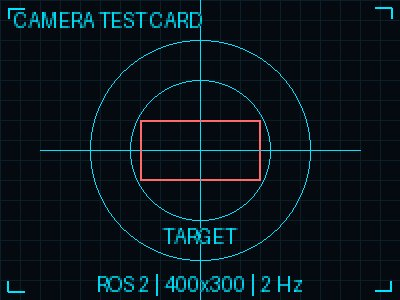
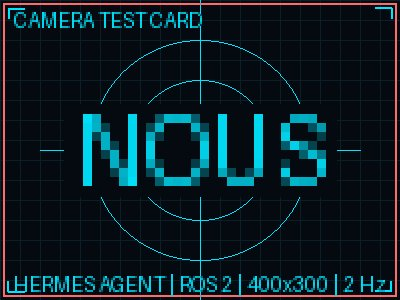
demo(card): the test card carries the NOUS mark
The card is the only picture the demo cell can produce, and beat 7 of the video
is 'grab frame'. It now reads NOUS on a plate over the reticle, with the frame,
resolution and rate still stated underneath — the same generated-from-constants
asset, so the JPEG is still reproducible from this file rather than opaque.

The accent box moved from the centre to the image border: it used to cut through
the wordmark, and a target rectangle nobody asked for was worth less than a
legible logo.

diff --git a/demo/make_testcard.py b/demo/make_testcard.py
@@ -29,8 +29,8 @@ from PIL import Image, ImageDraw, ImageFont
 # bundled camera node actually publishes, so the picture cannot contradict the
 # stream it is sent on.
 HEADER = "CAMERA TEST CARD"
-CENTER = "TARGET"
-FOOTER = "ROS 2 | 400x300 | 2 Hz"
+CENTER = "NOUS"
+FOOTER = "HERMES AGENT | ROS 2 | 400x300 | 2 Hz"
 
 # --- frame geometry, shared with demo/nodes.py ----------------------------
 WIDTH, HEIGHT = 400, 300  # a raw rgb8 frame at this size is 360,000 B
@@ -47,9 +47,10 @@ OUTPUT = Path(__file__).with_name("testcard.jpg")
 CENTER_XY = (WIDTH // 2, HEIGHT // 2)
 OUTER_R = 110
 INNER_R = 70
-BOX = (120, 60)  # target rectangle, width x height
+FRAME_INSET = 3  # accent border, drawn outside the wordmark so nothing crosses the letters
 CROSS_REACH = 160  # crosshair arm length, each way from the centre
 TEXT_SCALE = 2  # built-in bitmap font, nearest-neighbour upscaled
+MARK_SCALE = 9  # the CENTER wordmark, large enough to be read in a 400px frame
 
 
 def _grid(draw: ImageDraw.ImageDraw) -> None:
@@ -59,7 +60,7 @@ def _grid(draw: ImageDraw.ImageDraw) -> None:
         draw.line(((0, y), (WIDTH - 1, y)), fill=GRID, width=1)
 
 
-def _text(image: Image.Image, xy: tuple[int, int], text: str, fill=INK) -> None:
+def _text(image: Image.Image, xy: tuple[int, int], text: str, fill=INK, scale=TEXT_SCALE) -> None:
     """Paste text drawn with Pillow's built-in bitmap font, scaled up crisply.
 
     A system TTF would make the output depend on whatever fonts the host has;
@@ -72,17 +73,17 @@ def _text(image: Image.Image, xy: tuple[int, int], text: str, fill=INK) -> None:
     patch = Image.new("RGB", (max(1, right - left), max(1, bottom - top)), BACKGROUND)
     ImageDraw.Draw(patch).text((-left, -top), text, font=base, fill=fill)
     patch = patch.resize(
-        (patch.width * TEXT_SCALE, patch.height * TEXT_SCALE), Image.Resampling.NEAREST
+        (patch.width * scale, patch.height * scale), Image.Resampling.NEAREST
     )
     # Only the glyph pixels land on the card, so the grid shows through the gaps.
     mask = patch.convert("L").point([0 if value <= 40 else 255 for value in range(256)])
     image.paste(patch, xy, mask)
 
 
-def _text_width(text: str) -> int:
+def _text_width(text: str, scale: int = TEXT_SCALE) -> int:
     """Pixel width of `text` once scaled, for centring captions."""
     left, _, right, _ = (int(v) for v in ImageFont.load_default().getbbox(text))
-    return (right - left) * TEXT_SCALE
+    return (right - left) * scale
 
 
 def build() -> Image.Image:
@@ -101,9 +102,12 @@ def build() -> Image.Image:
         box = (cx - radius, cy - radius, cx + radius, cy + radius)
         draw.ellipse(box, outline=INK, width=1)
 
-    # Target rectangle: the region a detector would report.
-    half_w, half_h = BOX[0] // 2, BOX[1] // 2
-    draw.rectangle((cx - half_w, cy - half_h, cx + half_w, cy + half_h), outline=ACCENT, width=2)
+    # Accent frame: the image border, so the card reads as a captured frame.
+    draw.rectangle(
+        (FRAME_INSET, FRAME_INSET, WIDTH - 1 - FRAME_INSET, HEIGHT - 1 - FRAME_INSET),
+        outline=ACCENT,
+        width=2,
+    )
 
     # Corner framing ticks, no text.
     for ox, oy, sx, sy in (
@@ -118,7 +122,24 @@ def build() -> Image.Image:
     # Captions: neutral header, centre label, and the footer that names
     # framework, resolution and rate.
     _text(image, (14, 12), HEADER)
-    _text(image, (cx - _text_width(CENTER) // 2, cy + INNER_R + 8), CENTER)
+    # A plate behind the wordmark: the reticle is a HUD, and a HUD drawn through
+    # a logo reads as noise. The band is part of the card, not an overlay.
+    mark_w = _text_width(CENTER, MARK_SCALE)
+    _, mark_top, _, mark_bottom = (
+        int(v) * MARK_SCALE for v in ImageFont.load_default().getbbox(CENTER)
+    )
+    mark_h = mark_bottom - mark_top
+    pad = 10
+    draw.rectangle(
+        (
+            cx - mark_w // 2 - pad,
+            cy - mark_h // 2 - pad,
+            cx + mark_w // 2 + pad,
+            cy + mark_h // 2 + pad,
+        ),
+        fill=BACKGROUND,
+    )
+    _text(image, (cx - mark_w // 2, cy - mark_h // 2), CENTER, scale=MARK_SCALE)
     _text(image, (cx - _text_width(FOOTER) // 2, HEIGHT - 26), FOOTER)
 
     return image
